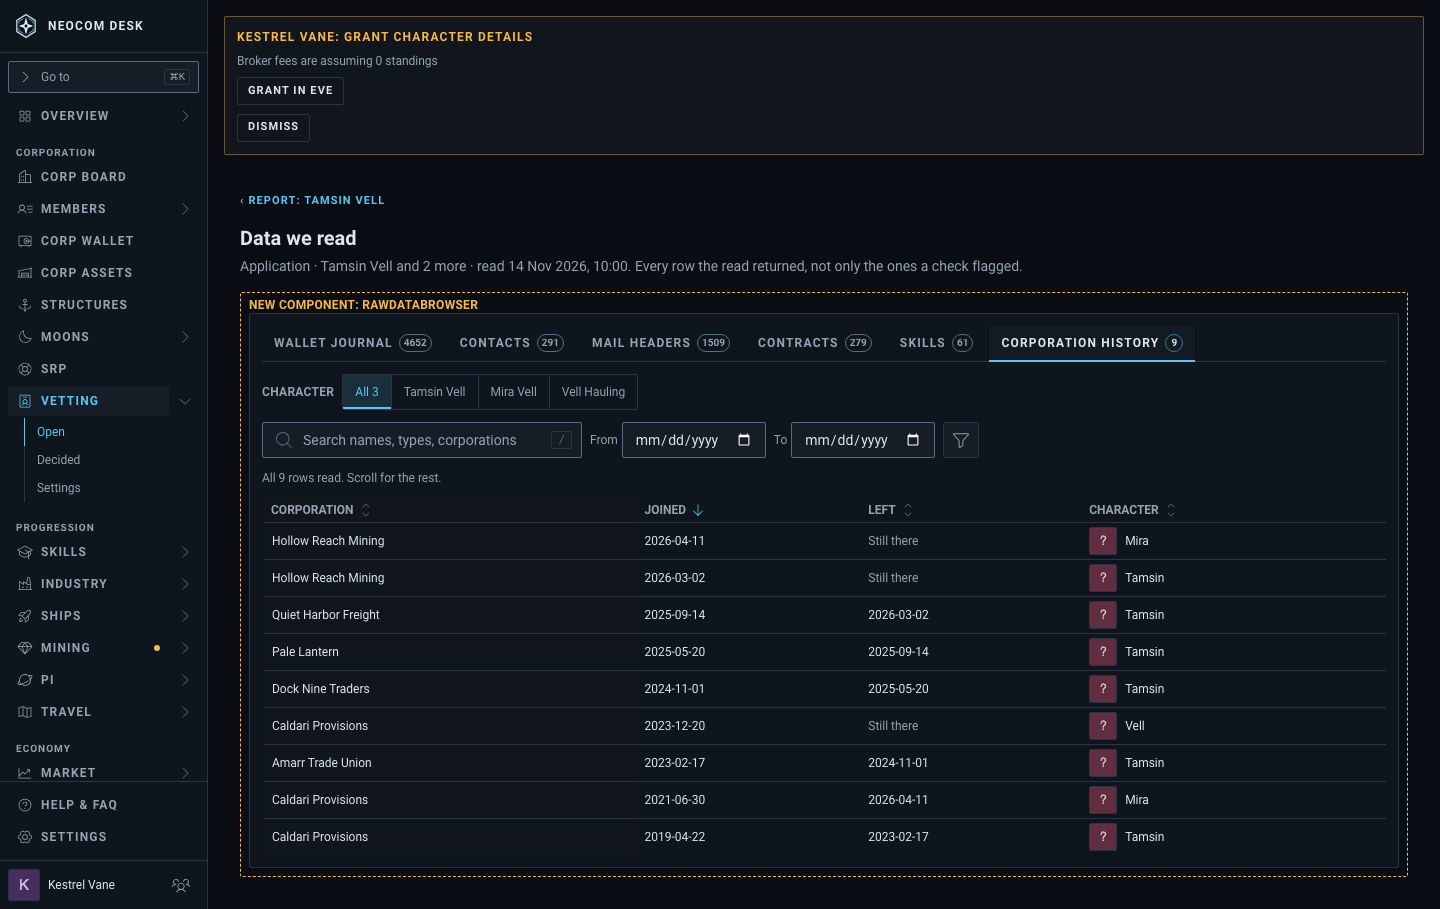
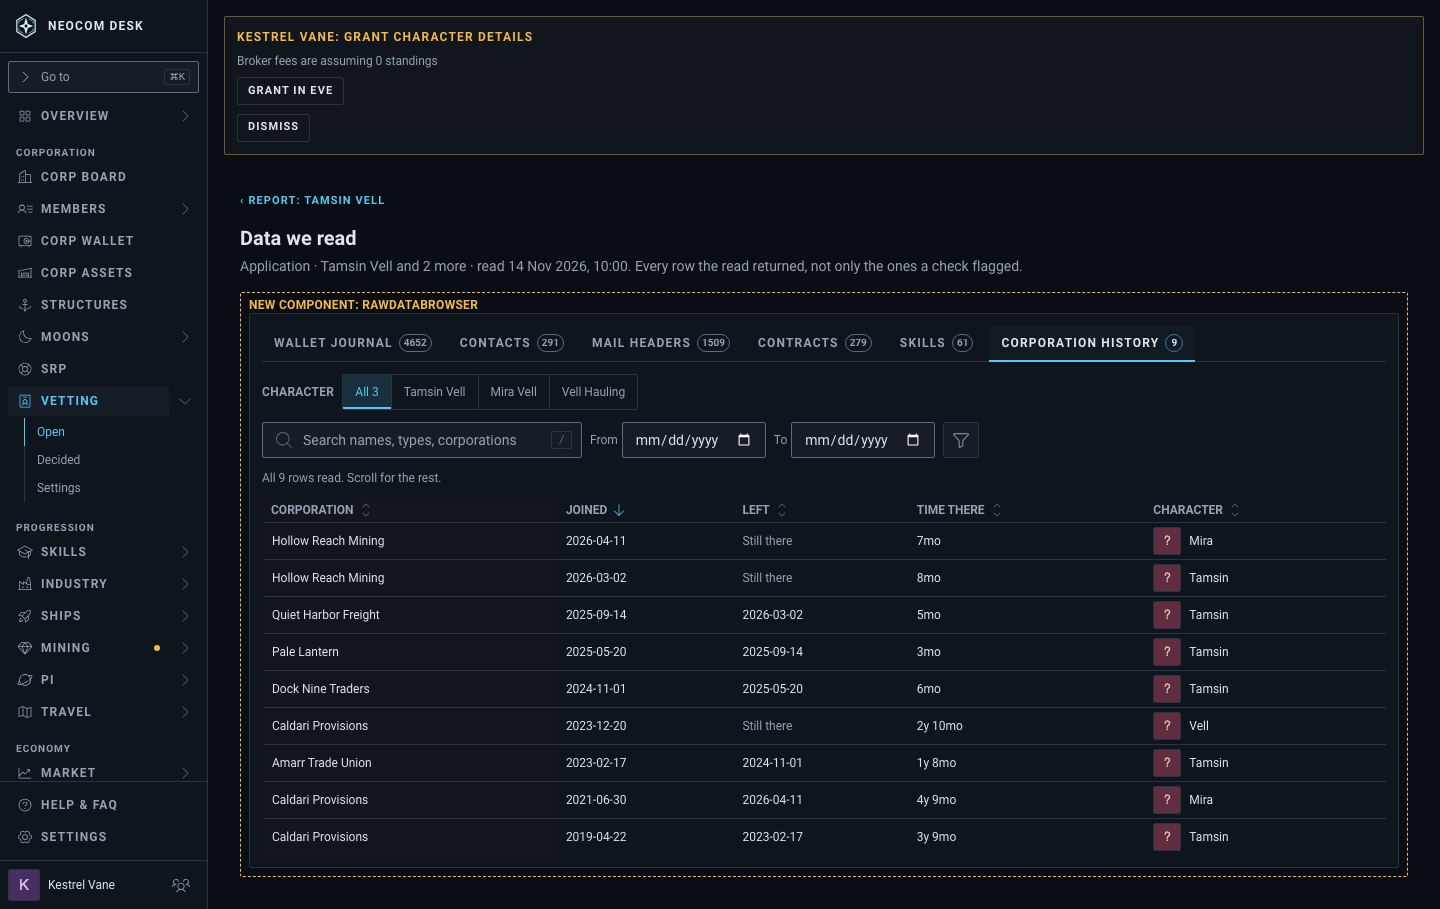
docs(mockups): vetting raw data: Time there column on corporation history (#6341)

diff --git a/src/mockups/vettingRawDataBrowser.tsx b/src/mockups/vettingRawDataBrowser.tsx
@@ -1,3 +1,4 @@
+import { formatTenure } from '@/lib/duration';
 import { useMemo, useState } from 'react';
 import {
   Button,
@@ -42,6 +43,7 @@ import {
   SOURCE_LABEL,
   SOURCE_TYPES,
   rowsOf,
+  READ_AT,
   type RawRow,
   type SourceId,
 } from './vettingRawDataFixtures';
@@ -332,6 +334,14 @@ function useColumns(source: SourceId, allCharacters: boolean): DataTableColumn<R
         sortValue: (row) => row.left ?? '9999',
         render: (row) => row.left ?? <span className="text-text-dim">Still there</span>,
       },
+      {
+        id: 'tenure',
+        header: 'Time there',
+        width: '14ch',
+        className: 'tabular-nums',
+        sortValue: (row) => tenureSeconds(row),
+        render: (row) => formatTenure(tenureSeconds(row)),
+      },
     ],
   };
   const columns = [...base[source]];
@@ -351,6 +361,12 @@ function NewFlagLink({ id, title }: { id: string; title: string }) {
       {title}
     </a>
   );
+}
+
+/** Seconds in a corporation, to the day the read ran when the character is still there. */
+function tenureSeconds(row: RawRow): number {
+  const end = row.left ? Date.parse(row.left) : READ_AT;
+  return (end - Date.parse(row.joined ?? '')) / 1000;
 }
 
 const DEFAULT_SORT: Record<SourceId, DataTableSort> = {

diff --git a/src/mockups/VettingRawData.stories.tsx b/src/mockups/VettingRawData.stories.tsx
@@ -115,7 +115,7 @@ export const ContractsFiltered: Story = {
 /** @summary Skills: skill, group, level; the Cynosural Field Theory V row links to its flag (Cyno skill, no capital). Skill group filter, no date range. */
 export const Skills: Story = { render: () => <DataBrowserPage source="skills" /> };
 
-/** @summary Corporation history: corporation, joined, left; public. Six corporations for Tamsin, 9 rows across the three characters. */
+/** @summary Corporation history: corporation, joined, left, time there (days under two months, then months, then years); public. Six corporations for Tamsin, 9 rows across the three characters. */
 export const CorpHistory: Story = { render: () => <DataBrowserPage source="history" /> };
 
 // --------------------------------------------------------------- Odd states

diff --git a/docs/design/mockups/vetting-raw-data/README.md b/docs/design/mockups/vetting-raw-data/README.md
@@ -34,7 +34,7 @@ One recommended design, with the decisions made in review at the end. It shares 
 | Mail headers | ![](mail-headers-1440.png) | ![](mail-headers-phone-390.png) |
 | Contracts, filtered (type, dates) | ![](contracts-filtered-1440.png) | ![](contracts-filtered-phone-390.png) |
 | Skills, flagged row | ![](skills-1440.png) | ![](skills-phone-390.png) |
-| Corporation history | ![](corp-history-1440.png) | ![](corp-history-phone-390.png) |
+| Corporation history (with time there) | ![](corp-history-1440.png) | ![](corp-history-phone-390.png) |
 | Empty source (shared, nothing found) | ![](empty-source-1440.png) | ![](empty-source-phone-390.png) |
 | Filters match nothing | ![](no-match-1440.png) | ![](no-match-phone-390.png) |
 | Consent terms alone | ![](consent-terms-only-1440.png) | ![](consent-terms-only-phone-390.png) |
